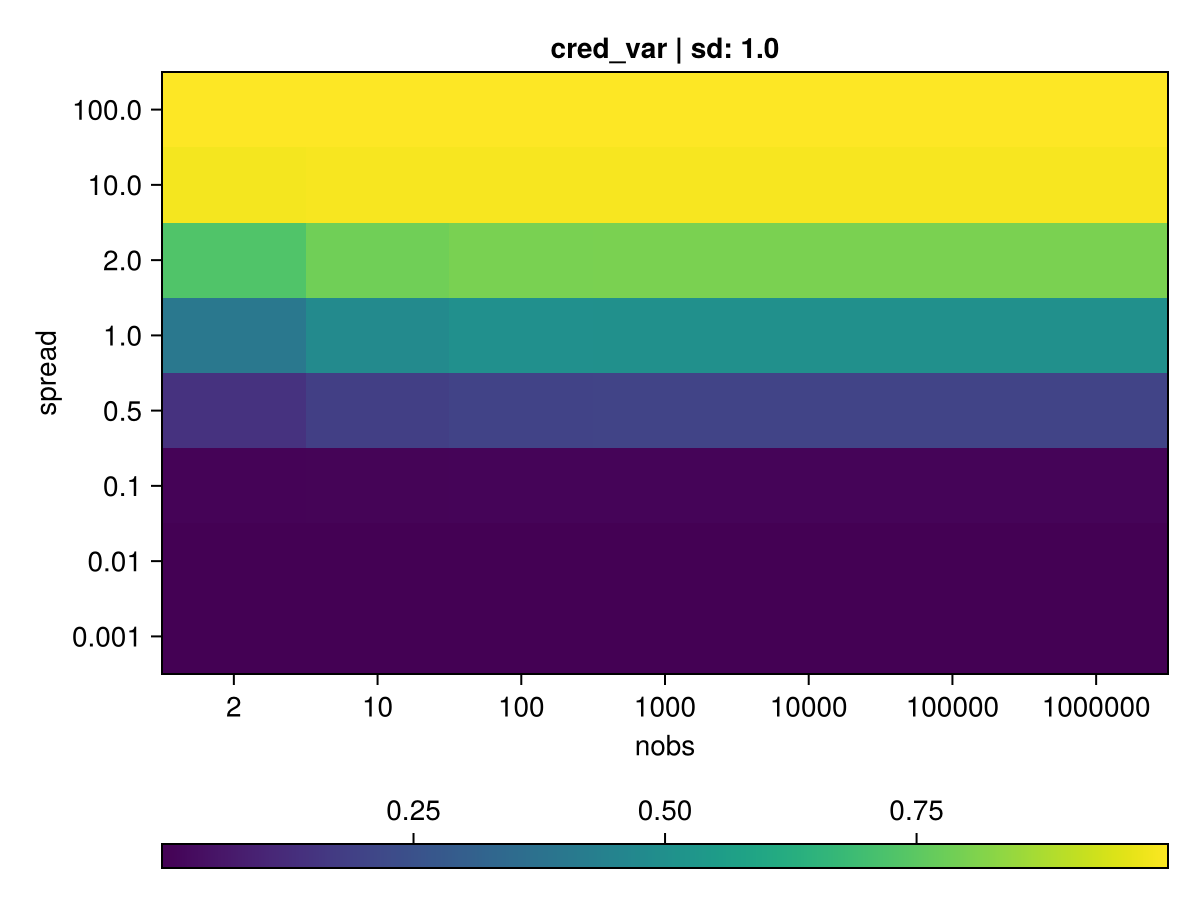
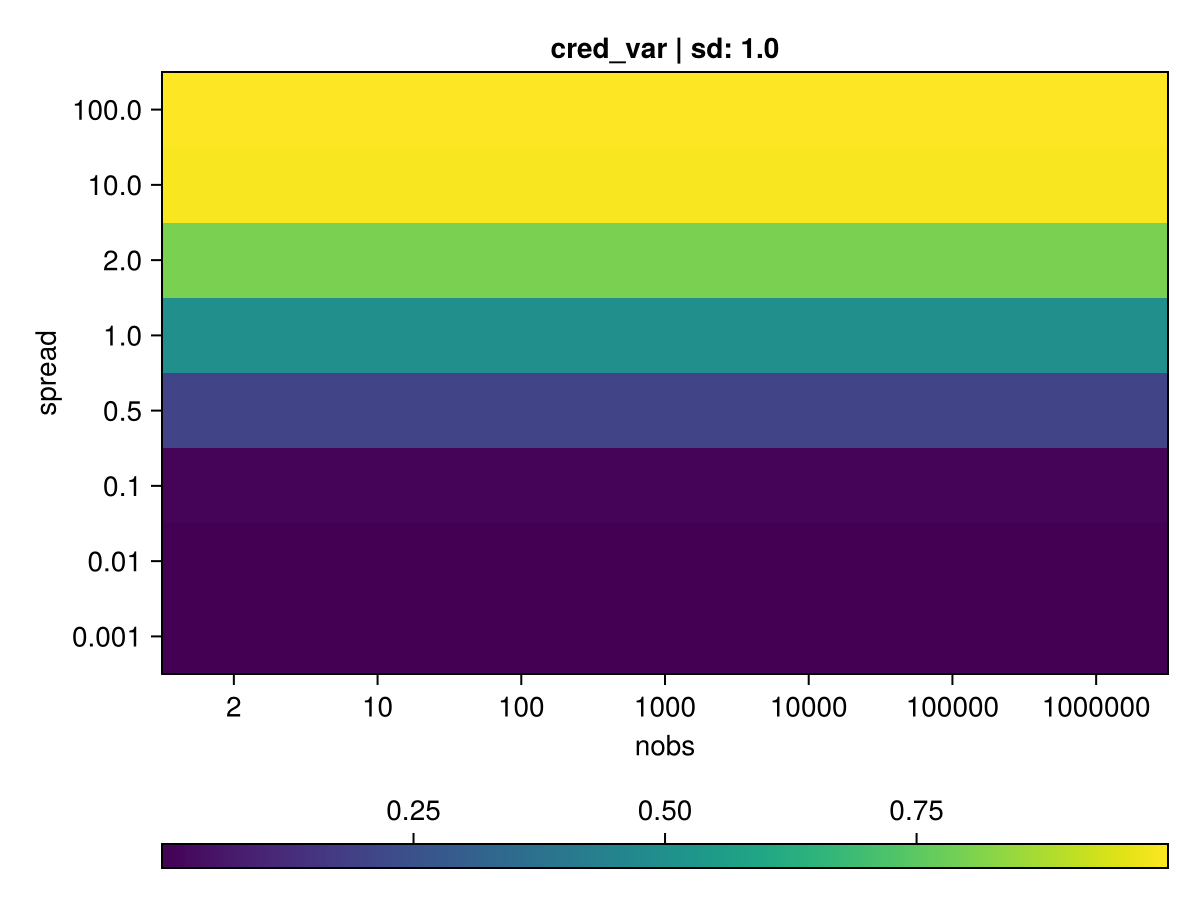
include L2 in cred predict

Changed region(s): [[0.1233, 0.2489, 0.2775, 0.3422]]

diff --git a/blog/cred/README.md b/blog/cred/README.md
@@ -1,6 +1,13 @@
 # Exploring a credibility-based approach for tree-gain estimation
 
 
+````
+Precompiling packages...
+   4431.3 ms  ✓ EvoTrees
+  1 dependency successfully precompiled in 6 seconds. 59 already precompiled.
+
+````
+
 > The motivation for this experiment stems from potential benefits in alternatives to gradient-based gains to identify the best split candidate.
 
 The figures below illustrate the behavior of vanilla gradient-based approach using a mean-squarred error (MSE) loss.
@@ -49,9 +56,9 @@ However, a smaller volatility results in an increased gain, as shown in 2nd vs 1
 | ![](assets/dist-cred_var-3A.png) | ![](assets/dist-cred_var-3B.png) |
 
 ## Credibility figures
-Four credibility variations are being tested:
- - **cred_var**: `VHM / (VHM + EVPV / N)`
- - **cred_std**: `sqrt(VHM) / (sqrt(VHM) + sqrt(EVPV / N))`
+Two credibility variations are tested:
+ - **cred_var**: `VHM / (VHM + EVPV)`
+ - **cred_std**: `sqrt(VHM) / (sqrt(VHM) + sqrt(EVPV))`
 The figures below present the credibility factor associated with different spreads and number observations
 
 ````julia
